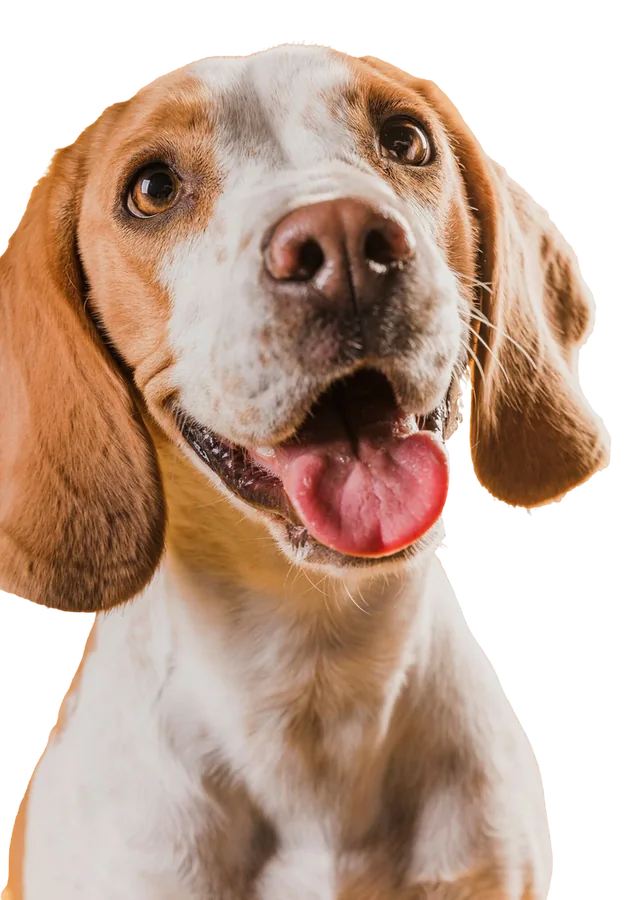
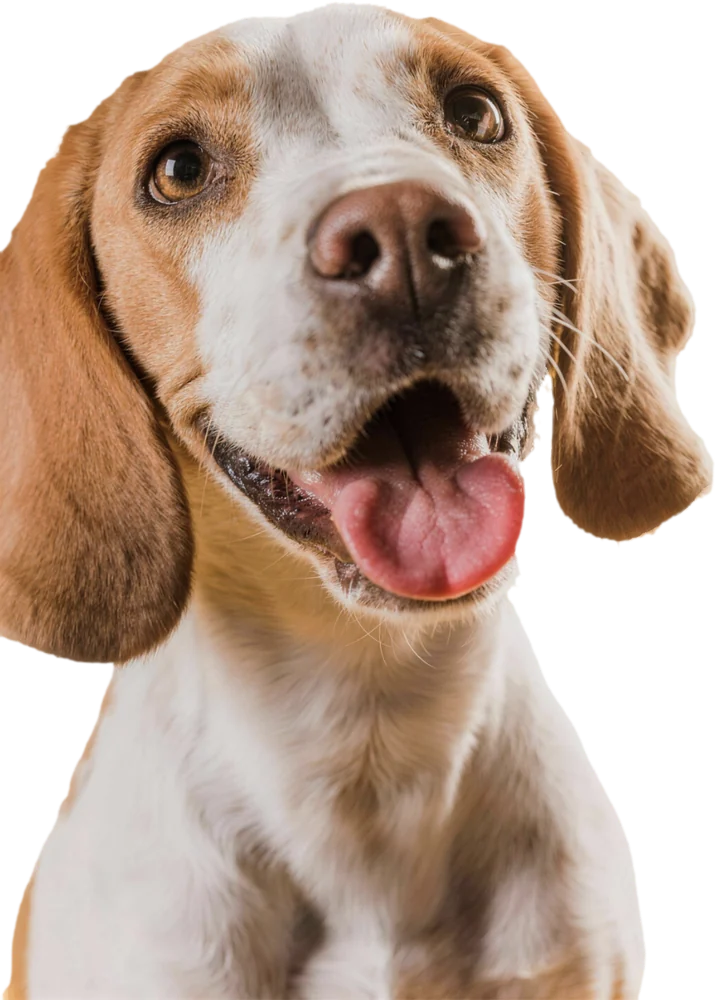
AI-enhanced bag renders and hero beagle; mobile-first pass (menu sheet, compact hero, product carousel, comparison cards)

diff --git a/index.html b/index.html
@@ -316,6 +316,87 @@ body.notes .note{display:block}
 .note a{text-decoration:underline;color:var(--blue);font-weight:800}
 .note .src{display:block;color:var(--mute);font-weight:700;margin-top:4px;font-size:.78rem}
 
+
+/* ===================== MOBILE-FIRST PASS ===================== */
+.menubtn{display:none;width:44px;height:44px;border-radius:12px;border:1.5px solid var(--line);align-items:center;justify-content:center}
+.menubtn svg{width:22px;height:22px}
+.msheet{display:none;position:fixed;left:0;right:0;top:0;bottom:0;z-index:100;background:rgba(62,38,24,.45)}
+.msheet.open{display:block}
+.msheet .panel{position:absolute;left:0;right:0;top:0;background:var(--paper);border-radius:0 0 22px 22px;padding:18px 6vw 22px;box-shadow:0 20px 40px rgba(62,38,24,.25);animation:drop .25s var(--ease)}
+@keyframes drop{from{transform:translateY(-12px);opacity:0}to{transform:none;opacity:1}}
+.msheet .top{display:flex;justify-content:space-between;align-items:center;margin-bottom:8px}
+.msheet .top img{height:36px}
+.msheet ul{list-style:none;display:grid}
+.msheet li a{display:flex;justify-content:space-between;align-items:center;padding:14px 4px;border-bottom:1px solid var(--line);font-family:var(--display);font-weight:600;font-size:1.1rem;color:var(--brown)}
+.msheet li a svg{width:18px;height:18px;color:var(--yellow)}
+.msheet .btn{margin-top:16px;width:100%}
+.swipe-hint{display:none;font-size:.78rem;font-weight:800;color:var(--mute);letter-spacing:.06em;text-transform:uppercase;margin-top:14px}
+.compare td::before{display:none}
+@media(max-width:760px){
+  .nav .wrap{height:64px}
+  .nav .logo img{height:38px}
+  .menubtn{display:inline-flex}
+  .cartbtn{padding:9px 13px}
+  /* hero: picture first, compact */
+  .hero{padding:10px 0 28px}
+  .hero .wrap{display:flex;flex-direction:column;align-items:stretch;gap:0}
+  .hero-art{order:-1;min-height:250px;margin:0 -6vw 6px;overflow:hidden}
+  .hero-art .blob{inset:14% 6% -30% 12%;border-radius:50% 50% 0 0/60% 60% 0 0}
+  .hero-art .dog{height:118%;bottom:-18%;transform:translateX(-48%)}
+  .hero-art .bag{width:24%}
+  .hero-art .b1{left:3%;bottom:-6%}
+  .hero-art .b2{right:3%;bottom:-2%}
+  .hero-art .badge{width:72px;top:6%;right:4%}
+  .hero .eyebrow{font-size:.7rem}
+  .hero h1{font-size:clamp(2rem,9vw,2.5rem);margin:8px 0 10px;max-width:none}
+  .hero .lead{font-size:1rem;display:-webkit-box;-webkit-line-clamp:3;-webkit-box-orient:vertical;overflow:hidden}
+  .hero .ctas{margin-top:18px;display:grid;grid-template-columns:1fr 1fr;gap:10px}
+  .hero .ctas .btn{padding:0 12px;font-size:.98rem;white-space:normal;text-align:center;min-height:54px}
+  .hero .proof{margin-top:14px;font-size:.85rem;flex-wrap:wrap}
+  /* products: swipeable carousel */
+  #premios .grid{display:flex;overflow-x:auto;scroll-snap-type:x mandatory;gap:14px;margin:22px -6vw 0;padding:6px 6vw 14px;-webkit-overflow-scrolling:touch;scrollbar-width:none}
+  #premios .grid::-webkit-scrollbar{display:none}
+  #premios .card{flex:0 0 78vw;scroll-snap-align:center;scroll-snap-stop:always}
+  .card .art img{height:200px}
+  .swipe-hint{display:block}
+  .toggle{width:100%;justify-content:center}
+  .toggle button{flex:1}
+  /* bundle */
+  .bundle{padding:26px 22px 28px;border-radius:22px}
+  .bundle .ship{position:static;display:inline-block;margin-bottom:12px;transform:none}
+  .bundle .bags{order:-1;margin-bottom:6px}
+  .bundle h2{font-size:1.6rem}
+  .bundle .btn{width:100%}
+  /* comparison table → cards */
+  .compare{overflow:visible;background:transparent;box-shadow:none}
+  .compare table,.compare tbody,.compare tr,.compare td{display:block;min-width:0}
+  .compare thead{display:none}
+  .compare tbody tr{background:var(--paper);border-radius:14px;box-shadow:var(--shadow);margin-bottom:10px;padding:12px 14px;display:grid;grid-template-columns:1fr 1fr;gap:8px}
+  .compare td{border:0;padding:0}
+  .compare td:first-child{grid-column:1/-1;font-family:var(--display);font-weight:600;color:var(--brown);font-size:.95rem;padding-bottom:4px;border-bottom:1px solid var(--line)}
+  .compare td.us,.compare td.them{background:transparent;border-radius:10px;padding:8px 10px;font-size:.9rem}
+  .compare td.us{background:rgba(123,175,44,.10)}
+  .compare td.them{background:var(--cream)}
+  .compare td::before{display:block;content:attr(data-label);font-size:.68rem;font-weight:800;letter-spacing:.08em;text-transform:uppercase;color:var(--mute);margin-bottom:3px}
+  .compare tfoot{display:block}.compare tfoot tr{display:block;background:transparent;box-shadow:none;padding:0}.compare tfoot td{padding:6px 4px;font-size:.75rem}
+  .compare tfoot td::before{display:none}
+  /* reco + steps + b2b spacing */
+  .reco{padding:20px}
+  .reco img{height:120px}
+  .b2b{padding:24px 20px}
+  .b2b .facts{grid-template-columns:repeat(3,1fr);gap:8px}
+  .b2b .facts b{font-size:1.2rem}
+  .news{padding:26px 20px}
+  .news input{min-width:0;width:100%}
+  .news .btn{width:100%}
+  section{padding:48px 0}
+  h2{font-size:1.75rem}
+  .lead{font-size:1.02rem}
+  footer .cols{gap:22px}
+  .notes-switch{display:none}
+  body.notes .notes-switch{display:flex}
+}
+
 /* reveal */
 .rv{opacity:0;transform:translateY(16px);transition:opacity .6s var(--ease),transform .6s var(--ease)}
 .rv.in{opacity:1;transform:none}
@@ -344,6 +425,7 @@ body.notes .note{display:block}
     </ul>
     <div class="nav-actions">
       <button class="lang" id="langBtn" aria-label="Switch language">EN</button>
+      <button class="menubtn" id="menuBtn" aria-label="Menú"><svg viewBox="0 0 24 24" fill="none" stroke="currentColor" stroke-width="2.2" stroke-linecap="round"><path d="M4 7h16M4 12h16M4 17h10"/></svg></button>
       <button class="cartbtn" id="cartBtn" aria-label="Carrito">
         <svg viewBox="0 0 24 24" fill="none" stroke="currentColor" stroke-width="2"><path d="M6 6h15l-1.5 8h-12z"/><path d="M6 6L5 3H2"/><circle cx="9" cy="20" r="1.5"/><circle cx="17" cy="20" r="1.5"/></svg>
         <span class="n" id="cartN">0</span>
@@ -371,9 +453,9 @@ body.notes .note{display:block}
     </div>
     <div class="hero-art">
       <div class="blob"></div>
-      <img class="dog" src="img-beagle.webp" alt="Perro beagle feliz" width="643" height="900">
-      <img class="bag b1" src="img-bag-patas.webp" alt="Bolsa Chewawa Patas de pollo" width="468" height="720">
-      <img class="bag b2" src="img-bag-jerky.webp" alt="Bolsa Chewawa Jerky de res" width="468" height="720">
+      <img class="dog" src="img-beagle.webp" alt="Perro beagle feliz" width="715" height="1000">
+      <img class="bag b1" src="img-bag-patas.webp" alt="Bolsa Chewawa Patas de pollo" width="684" height="1080">
+      <img class="bag b2" src="img-bag-jerky.webp" alt="Bolsa Chewawa Jerky de res" width="729" height="1080">
       <img class="badge" src="img-badge.webp" alt="Treat your pet right" width="339" height="320">
     </div>
   </div>
@@ -404,6 +486,7 @@ body.notes .note{display:block}
       <button id="modeSub"><span data-i="m_sub">Cada mes</span><span class="save">−15 %</span></button>
     </div>
     <div class="grid" id="grid"></div>
+    <div class="swipe-hint" data-i="swipe">Desliza para ver los 4 →</div>
     <p style="margin-top:22px;font-size:.85rem;color:var(--mute);font-weight:700" data-i="p_note">Precios en MXN con IVA. <span class="demo-tag">demo · precios de referencia</span></p>
   </div>
 </section>
@@ -432,10 +515,10 @@ body.notes .note{display:block}
         <button class="btn btn-cta" style="margin-top:22px" id="addBundle" data-i="b_cta">Agregar Pack Probador</button>
       </div>
       <div class="bags">
-        <img src="img-bag-patas.webp" alt="Patas de pollo" width="468" height="720">
-        <img src="img-bag-sticks.webp" alt="Sticks de res" width="467" height="720">
-        <img src="img-bag-pechuga.webp" alt="Tiras de pechuga" width="468" height="720">
-        <img src="img-bag-jerky.webp" alt="Jerky de res" width="468" height="720">
+        <img src="img-bag-patas.webp" alt="Patas de pollo" width="684" height="1080">
+        <img src="img-bag-sticks.webp" alt="Sticks de res" width="729" height="1080">
+        <img src="img-bag-pechuga.webp" alt="Tiras de pechuga" width="729" height="1080">
+        <img src="img-bag-jerky.webp" alt="Jerky de res" width="729" height="1080">
       </div>
     </div>
   </div>
@@ -620,6 +703,21 @@ body.notes .note{display:block}
 
 <button class="notes-switch" id="notesBtn" aria-pressed="false"><i></i><span data-i="notes_lbl">Notas de diseño</span></button>
 
+
+<div class="msheet" id="msheet">
+  <div class="panel">
+    <div class="top"><img src="img-logo.webp" alt="Chewawa!"><button class="x" id="menuClose" aria-label="Cerrar" style="font-size:1.8rem;line-height:1;padding:4px 10px">×</button></div>
+    <ul>
+      <li><a href="#premios" data-i="mn1">Premios <svg viewBox="0 0 24 24" fill="none" stroke="currentColor" stroke-width="2.5"><path d="M9 6l6 6-6 6"/></svg></a></li>
+      <li><a href="#pack" data-i="mn2">Pack Probador <svg viewBox="0 0 24 24" fill="none" stroke="currentColor" stroke-width="2.5"><path d="M9 6l6 6-6 6"/></svg></a></li>
+      <li><a href="#porque" data-i="mn3">Por qué Chewawa <svg viewBox="0 0 24 24" fill="none" stroke="currentColor" stroke-width="2.5"><path d="M9 6l6 6-6 6"/></svg></a></li>
+      <li><a href="#tamano" data-i="mn4">¿Cuánto le doy? <svg viewBox="0 0 24 24" fill="none" stroke="currentColor" stroke-width="2.5"><path d="M9 6l6 6-6 6"/></svg></a></li>
+      <li><a href="#mayoreo" data-i="mn5">Mayoreo <svg viewBox="0 0 24 24" fill="none" stroke="currentColor" stroke-width="2.5"><path d="M9 6l6 6-6 6"/></svg></a></li>
+      <li><a href="#faq" data-i="mn6">Preguntas frecuentes <svg viewBox="0 0 24 24" fill="none" stroke="currentColor" stroke-width="2.5"><path d="M9 6l6 6-6 6"/></svg></a></li>
+    </ul>
+    <a class="btn btn-wa" href="https://wa.me/525661118591" target="_blank" rel="noopener" data-i="mn_wa">Escríbenos por WhatsApp</a>
+  </div>
+</div>
 <div class="overlay" id="overlay"></div>
 <aside class="drawer" id="drawer" aria-label="Carrito">
   <header><h3 data-i="cd_h">Tu carrito</h3><button class="x" id="closeCart" aria-label="Cerrar">×</button></header>
@@ -654,22 +752,22 @@ const CONFIG = {
    Análisis garantizado y guía de porciones: catálogo Chewawa 2025. */
 const PRODUCTS = [
   { id:'patas',   name:'Patas de pollo', en:'Chicken Feet', sub:"Heaven's Crunchies", code:'PT0022', qty:'18 pz', qtyEn:'18 pcs', grams:150, pieces:18, price:199,
-    color:'#E9A93B', tint:'#FBEFD3', img:'img-bag-patas.webp', tag:'Más vendido', tagEn:'Best seller', hot:true,
+    color:'#E9A93B', tint:'#FBEFD3', img:'img-bag-patas.webp', w:684, h:1080, tag:'Más vendido', tagEn:'Best seller', hot:true,
     desc:'Crujientes y con glucosamina natural para las articulaciones. Ideal para razas medianas y grandes.',
     descEn:'Crunchy, with natural glucosamine for joints. Ideal for medium and large breeds.',
     ingr:'Patas de pollo', ingrEn:'Chicken feet', protein:58, fat:3, fiber:1, moisture:12, unit:'piezas', unitEn:'pieces', portions:[[1,2],[2,3],[3,4],[4,5]] },
   { id:'sticks',  name:'Sticks de res', en:'Beef Sticks', sub:'Healthy Crave', code:'PT0042', qty:'96 g', qtyEn:'96 g', grams:96, price:199,
-    color:'#7BAF2C', tint:'#E8F1D6', img:'img-bag-sticks.webp', tag:'Dental', tagEn:'Dental',
+    color:'#7BAF2C', tint:'#E8F1D6', img:'img-bag-sticks.webp', w:729, h:1080, tag:'Dental', tagEn:'Dental',
     desc:'Esófago de res deshidratado. Masticable largo que ayuda a limpiar los dientes sin harinas ni glicerina.',
     descEn:'Dehydrated beef esophagus. A long chew that helps clean teeth — no flours, no glycerin.',
     ingr:'Esófago de res', ingrEn:'Beef esophagus', protein:54, fat:6, fiber:1, moisture:12, unit:'sticks', unitEn:'sticks', portions:[[1,2],[2,3],[3,4],[4,5]] },
   { id:'pechuga', name:'Tiras de pechuga de pollo', en:'Chicken Breast Strips', sub:'Nutri Luxe', code:'PT0021', qty:'255 g', qtyEn:'255 g', grams:255, price:349,
-    color:'#D8463E', tint:'#F8DAD8', img:'img-bag-pechuga.webp', tag:'Entrenamiento', tagEn:'Training',
+    color:'#D8463E', tint:'#F8DAD8', img:'img-bag-pechuga.webp', w:729, h:1080, tag:'Entrenamiento', tagEn:'Training',
     desc:'65 % de proteína y textura suave. El premio que sí quieren ganarse en el entrenamiento. Apto para cachorros.',
     descEn:'65% protein and a soft texture. The reward they actually work for. Puppy-friendly.',
     ingr:'Pechuga de pollo', ingrEn:'Chicken breast', protein:65, fat:3, fiber:1, moisture:12, unit:'tiras', unitEn:'strips', portions:[[1,2],[2,3],[3,4],[4,5]] },
   { id:'jerky',   name:'Jerky de res', en:'Beef Jerky', sub:'Vital Feast', code:'PT0041', qty:'255 g', qtyEn:'255 g', grams:255, price:349,
-    color:'#35A9BC', tint:'#D6EEF2', img:'img-bag-jerky.webp', tag:'Alta proteína', tagEn:'High protein',
+    color:'#35A9BC', tint:'#D6EEF2', img:'img-bag-jerky.webp', w:729, h:1080, tag:'Alta proteína', tagEn:'High protein',
     desc:'Carne de res 100 %, deshidratada lento. Para perros exigentes y perros grandes con hambre de verdad.',
     descEn:'100% beef, slow-dehydrated. For picky eaters and big dogs with real appetite.',
     ingr:'Carne de res', ingrEn:'Beef', protein:55, fat:8, fiber:1, moisture:12, unit:'tiras', unitEn:'strips', portions:[[1,2],[2,3],[3,4],[4,5]] }
@@ -719,7 +817,7 @@ const EN = {
   note10:'Payment and checkout: 75% of Mexican online shoppers pay with debit, 49% with credit and 26% in cash at OXXO-type stores; interest-free installments motivate 70%. Guest checkout: 18–24% abandon when forced to create an account, and the average checkout asks for 11.3 fields when 8 are enough. <span class="src">Sources: <a href="https://8982035.fs1.hubspotusercontent-na1.net/hubfs/8982035/AMVO_Estudio%20de%20Venta%20Online%202025_P%C3%BAblica_V2.pdf" target="_blank" rel="noopener">AMVO 2025</a> · <a href="https://baymard.com/blog/checkout-flow-average-form-fields" target="_blank" rel="noopener">Baymard, checkout flow</a>.</span>',
   ft_p:'Single-ingredient treats, made in Mexico. Treat your pet right.', ft_h1:'Shop', ft_l1:'All treats', ft_l2:'Sampler Pack', ft_l3:'Monthly subscription', ft_l4:'Wholesale & distributors', ft_h2:'Help', ft_l5:'FAQ', ft_l6:'Shipping & returns', ft_l7:'Portion guide', ft_l8:'Invoicing', ft_h3:'Contact', ft_ig:'Instagram · TikTok · Facebook', ft_city:'Monterrey, N.L., Mexico',
   ft_legal:'© 2026 Chewawa! Dog Treats · Privacy notice · Terms & conditions · Return policy', ft_demo:'Demo site — not the official store.',
-  mc_t:'From $199', mc_cta:'Shop treats', notes_lbl:'Design notes', cd_h:'Your cart', cd_sub:'Subtotal', cd_cta:'Checkout', cd_small:'Secure payment · Guest checkout, no account needed',
+  mc_t:'From $199', mn1:'Treats', mn2:'Sampler Pack', mn3:'Why Chewawa', mn4:'How much?', mn5:'Wholesale', mn6:'FAQ', mn_wa:'Message us on WhatsApp', swipe:'Swipe to see all 4 →', c_us:'Chewawa', c_them:'Supermarket treat', mc_cta:'Shop treats', notes_lbl:'Design notes', cd_h:'Your cart', cd_sub:'Subtotal', cd_cta:'Checkout', cd_small:'Secure payment · Guest checkout, no account needed',
   /* dynamic */
   per100:'per 100 g', per_piece:'per piece', add:'Add', added:'Added ✓', msi:'3 interest-free payments', each_month:'/ month', once:'one time', sub:'monthly −15%',
   reco_t:'Recommended for a', reco_p:'Maximum daily portion (feeding guide):', reco_cta:'Add', bundle_n:'Sampler Pack (4 bags)',
@@ -734,6 +832,7 @@ Object.assign(ES, {
   reco_t:'Recomendado para perro', reco_p:'Porción diaria máxima (guía de alimentación):', reco_cta:'Agregar', bundle_n:'Pack Probador (4 bolsas)',
   ship_need:'Te faltan $', ship_need2:' para envío gratis', ship_ok:'¡Ya tienes envío gratis! 🎉', empty:'Tu carrito está vacío. Los premios te esperan.',
   toast_added:'Agregado al carrito', toast_checkout:'Demo: conecta CONFIG.checkoutUrl (Stripe / Shopify / Mercado Pago) para activar el pago.', toast_b2b:'Demo: solicitud de mayoreo recibida. Conecta CONFIG.b2bEndpoint.', toast_nl:'Demo: suscripción registrada. Conecta CONFIG.newsletterEndpoint.',
+  c_us:'Chewawa', c_them:'Premio del súper',
   an_protein:'Proteína cruda (mín.)', an_fat:'Grasa cruda (mín.)', an_1ing:'1 ingrediente',
 });
 let lang = 'es';
@@ -744,7 +843,7 @@ function setLang(l){
   document.querySelectorAll('[data-ph]').forEach(el => { if (D[el.dataset.ph] !== undefined) el.placeholder = D[el.dataset.ph]; });
   document.getElementById('langBtn').textContent = l === 'es' ? 'EN' : 'ES';
   document.documentElement.lang = l === 'es' ? 'es-MX' : 'en';
-  renderGrid(); renderSizes(); renderAnalysis(); renderCart();
+  renderGrid(); renderSizes(); renderAnalysis(); renderCart(); labelCompare();
 }
 document.getElementById('langBtn').onclick = () => setLang(lang === 'es' ? 'en' : 'es');
 
@@ -759,7 +858,7 @@ function renderGrid(){
   const g = document.getElementById('grid');
   g.innerHTML = PRODUCTS.map(p => `
     <article class="card rv in" style="--accent:${p.color};--tint:${p.tint}">
-      <div class="art"><span class="tag ${p.hot?'hot':''}">${lang==='es'?p.tag:p.tagEn}</span><img src="${p.img}" alt="${pname(p)}" loading="lazy" width="468" height="720"></div>
+      <div class="art"><span class="tag ${p.hot?'hot':''}">${lang==='es'?p.tag:p.tagEn}</span><img src="${p.img}" alt="${pname(p)}" loading="lazy" width="${p.w}" height="${p.h}"></div>
       <div class="body">
         <span class="sub">${p.sub}</span>
         <h3>${pname(p)}</h3>
@@ -860,6 +959,14 @@ const nb = document.getElementById('notesBtn');
 nb.onclick = () => { const on = document.body.classList.toggle('notes'); nb.setAttribute('aria-pressed', on); };
 if (location.hash === '#notas' || location.search.includes('notas')) document.body.classList.add('notes');
 
+
+/* ===================== mobile menu + table labels ===================== */
+const msheet = document.getElementById('msheet');
+document.getElementById('menuBtn').onclick = () => msheet.classList.add('open');
+document.getElementById('menuClose').onclick = () => msheet.classList.remove('open');
+msheet.addEventListener('click', e => { if (e.target === msheet || e.target.closest('a')) msheet.classList.remove('open'); });
+function labelCompare(){ document.querySelectorAll('.compare tbody tr').forEach(tr => { const td = tr.querySelectorAll('td'); if (td[1]) td[1].setAttribute('data-label', T('c_us')); if (td[2]) td[2].setAttribute('data-label', T('c_them')); }); }
+
 /* ===================== reveal + mobile CTA ===================== */
 const io = new IntersectionObserver(es => es.forEach(e => { if (e.isIntersecting) { e.target.classList.add('in'); io.unobserve(e.target); } }), { threshold: .12 });
 document.querySelectorAll('.rv').forEach(el => io.observe(el));
@@ -868,7 +975,7 @@ const heroObs = new IntersectionObserver(es => es.forEach(e => mcta.classList.to
 heroObs.observe(document.querySelector('.hero .ctas'));
 
 /* ===================== init ===================== */
-renderGrid(); renderSizes(); renderAnalysis(); renderCart();
+renderGrid(); renderSizes(); renderAnalysis(); renderCart(); labelCompare();
 </script>
 </body>
 </html>

diff --git a/README.md b/README.md
@@ -29,7 +29,7 @@ Otros pendientes marcados en el HTML:
 - FAQ "¿Tienen registro sanitario?": colocar número de registro SENASICA/SADER.
 - Sello FDA del catálogo no se usa en la versión MX; agregar el sello mexicano que aplique.
 - Fotos de clientes / TikTok en la sección de opiniones.
-- Las bolsas vienen del PDF a 234×360 px (escaladas 3×). Para producción pedir renders en alta.
+- Las bolsas (`img-bag-*.webp`) y el beagle son renders generados con IA a partir de las imágenes del catálogo (234×360 px; fuentes en `src-*.png`): diseño, colores, logo y textos principales son fieles, pero la letra chica (bullets, sello redondo) es inventada por el modelo y no debe usarse como referencia. Para producción, pedir los renders originales en alta resolución al diseñador del catálogo.
 
 ## Para publicar
 
